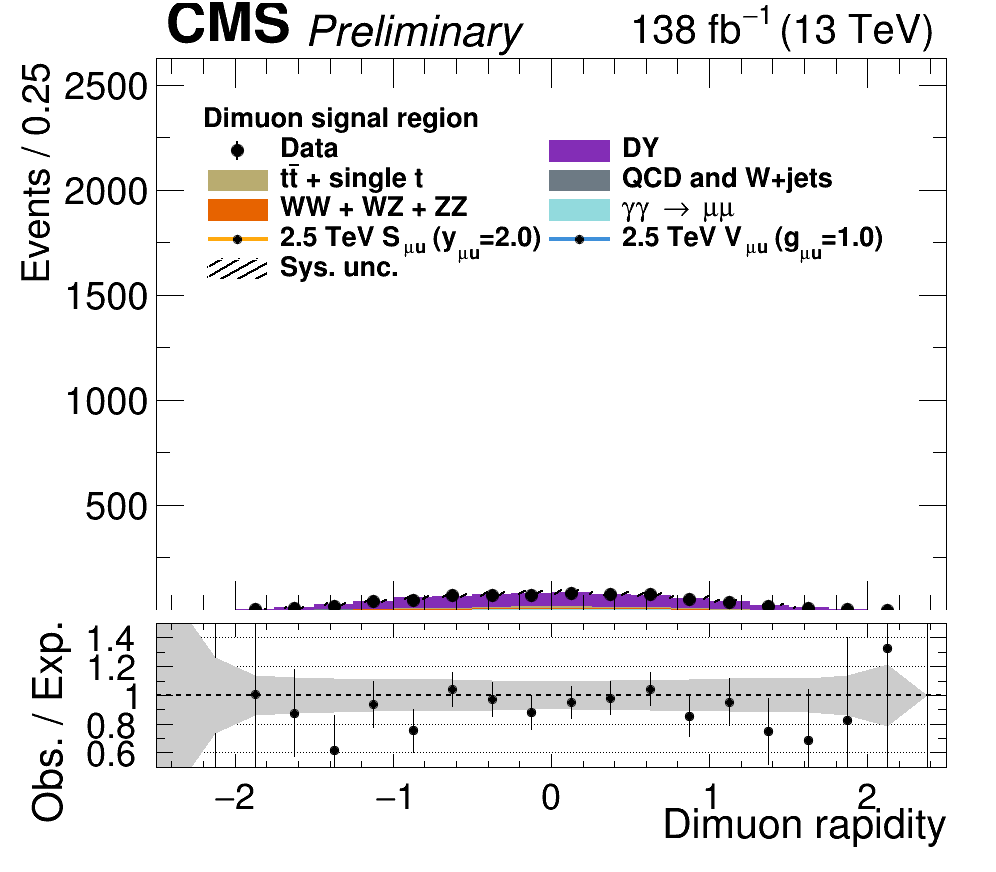
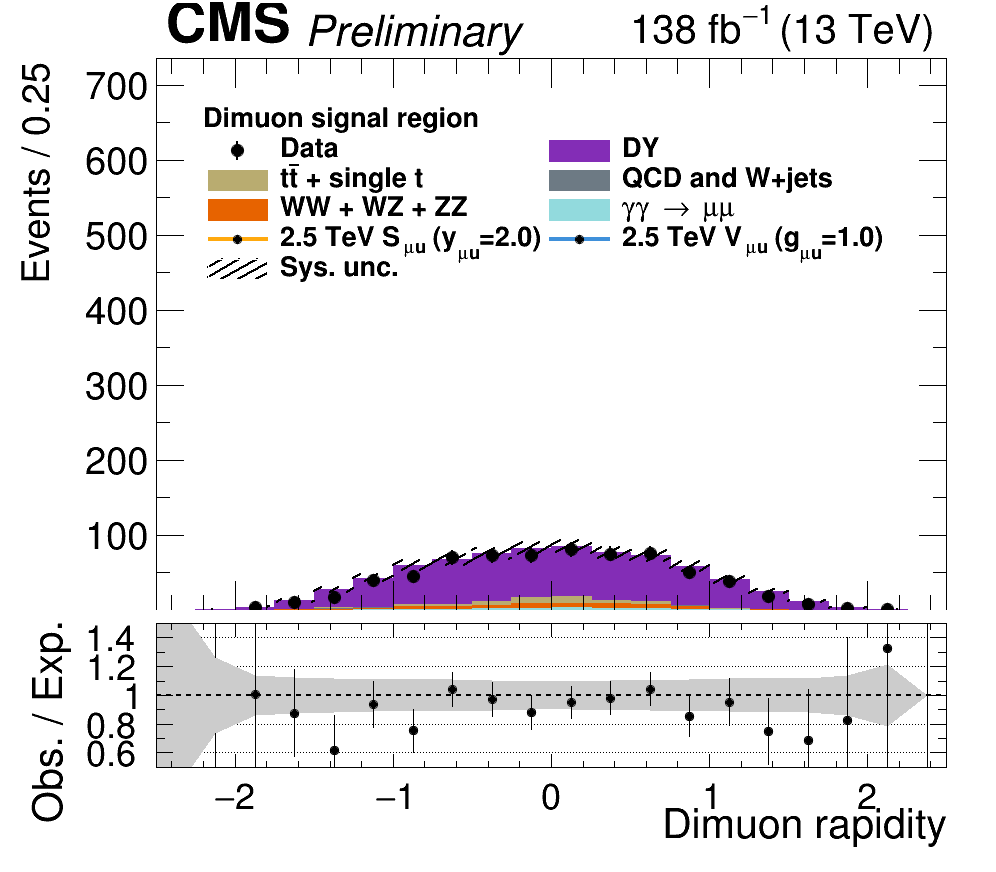
updated ymax for rap

diff --git a/plots/MuMu/draw_cmp_from_saved.C b/plots/MuMu/draw_cmp_from_saved.C
@@ -496,7 +496,7 @@ dy_cost->SetLineColor(DY_color);
     int n_rap_bins = 20;
     float rap_bin_size = 5. / n_rap_bins;
 
-    hmax = 2500;
+    hmax = 700;
     // if(year == 2016)
     //     hmax *= 0.25;
     // if(year == 2017)
